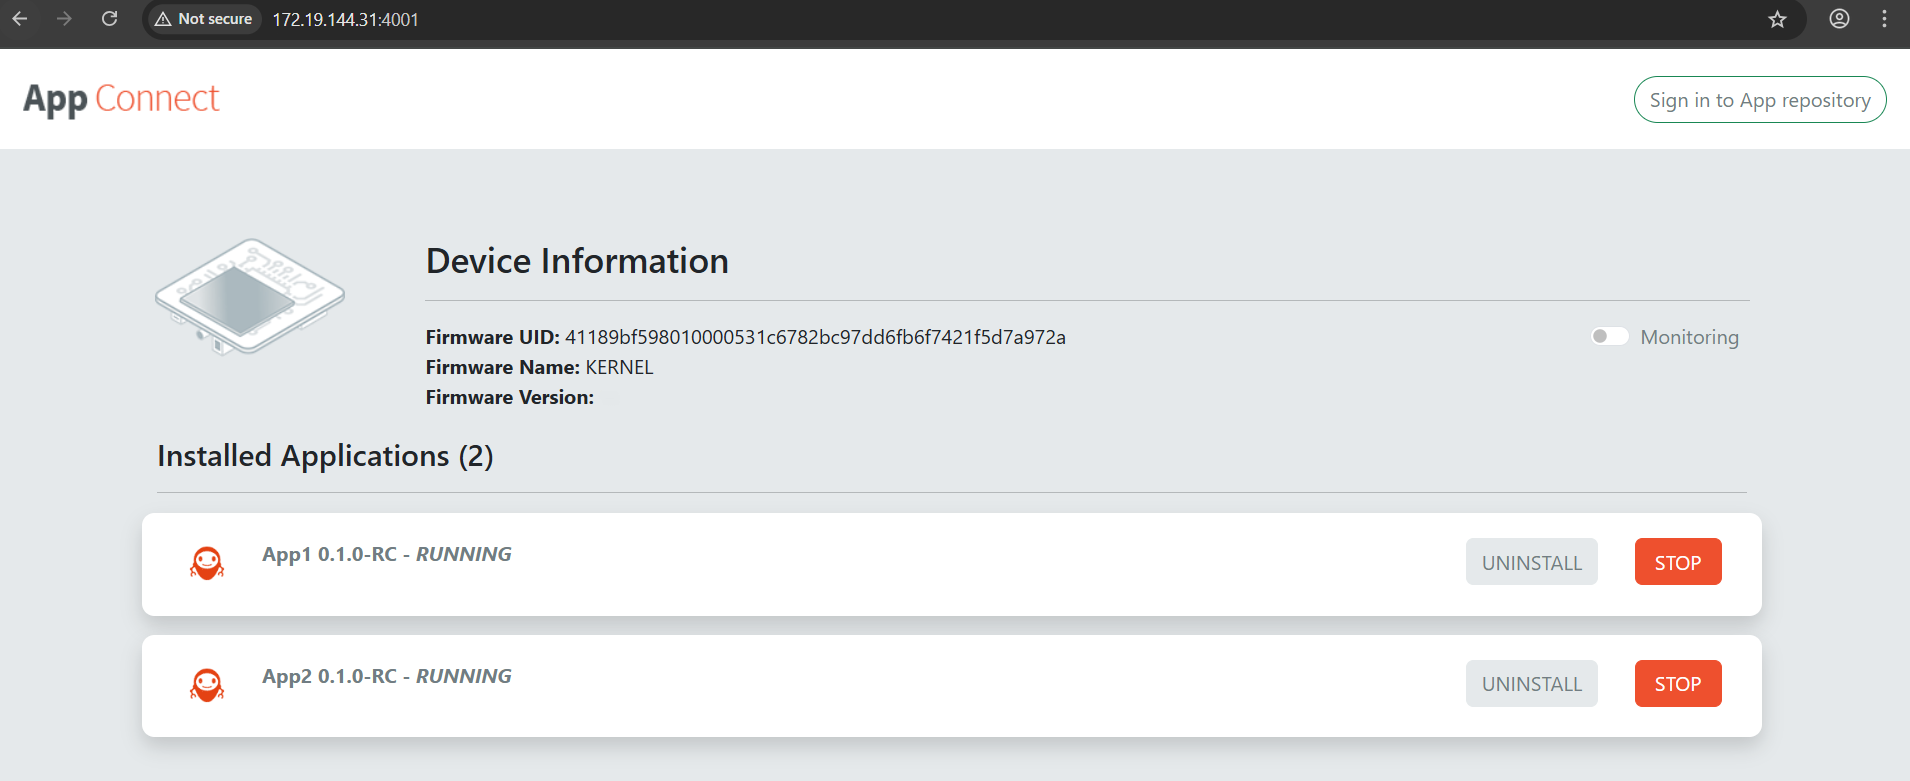
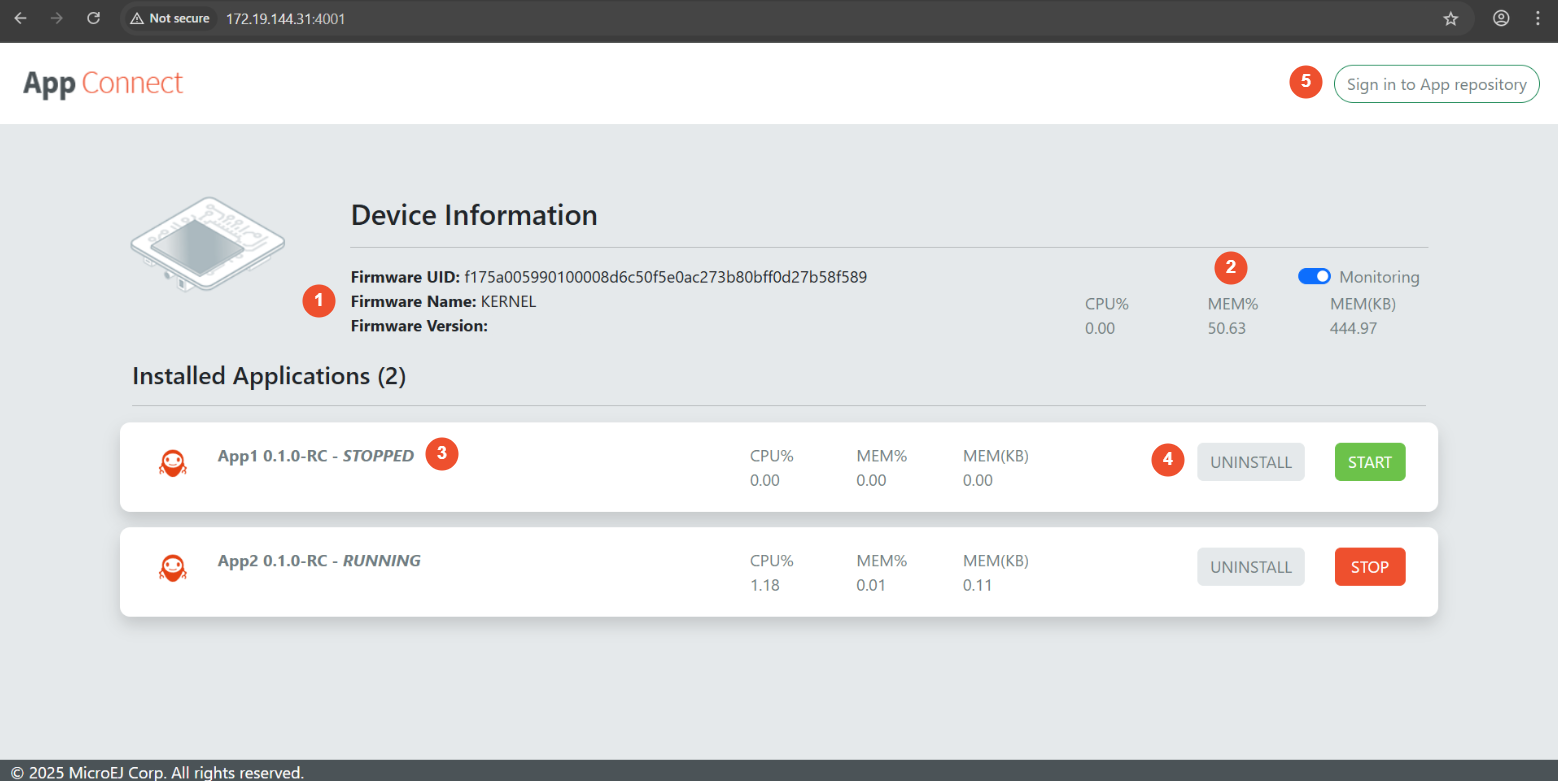
Update overview and picture

diff --git a/ApplicationDeveloperGuide/sandboxedApplication.rst b/ApplicationDeveloperGuide/sandboxedApplication.rst
@@ -35,27 +35,40 @@ Please refer to the :ref:`kernel-developer-guide` to learn more on writing Kerne
 
 
 AppConnect Application Management
-================================================
+=================================
 
 **AppConnect** is an embedded library designed to simplify the management of on-board Sandboxed Applications directly on the device.
 It provides services to install, start, stop, and uninstall applications, as well as to retrieve metadata about both deployed applications and the target device.
 The library includes a full-fledged HTTP server, providing a comprehensive REST API along with a web-based graphical interface.
 
-AppConnect supports three modes of interaction:
+AppConnect supports four modes of interaction:
 
-- A web application enabling users to access and control applications via a web interface or REST API.
-- A Java-based command-line (CLI) tool that serves as a headless interface, offering the full functionality of the web application through its REST API, while enabling seamless automation and scripting directly from the command line.
-- A serial module that operates independently of the HTTP server, providing a shell for receiving and executing commands over a serial connection (UART).
+- Web App — See :ref:`web_app_section`.
+- REST API — See :ref:`rest_api_section`.
+- HTTP CLI — See :ref:`http_cli_section`.
+- Serial Shell — See :ref:`serial_shell_section`.
 
-AppConnect Web UI
------------------
+.. _web_app_section:
+
+AppConnect Web App
+------------------
 
 Installed Applications are listed on the Web UI, and they can be started, stopped, or uninstalled.
+
+The screenshot below highlights the following elements:
+
+1. Device information that displays the firmware UID, name and version.
+2. CPU and RAM monitoring when supported by the device and the applications.
+3. The current state of each application (``INSTALLED``, ``RUNNING`` , or ``STOPPED``).
+4. Action buttons to start, stop, or uninstall applications.
+5. Connection to the MicroEJ App Store.
 
 .. figure:: images/app_connect_web_ui.png
    :alt: AppConnect Web UI
    :align: center
    :scale: 75%
+
+.. _rest_api_section:
 
 AppConnect REST API
 -------------------
@@ -102,8 +115,8 @@ Install an application on the device.
 - ``force``: If ``true``, uninstall any existing application with the same name before installing the new one. Default: ``false``.
 - ``start``: If ``true``, automatically start the application after installation. Default: ``false``.
 
-Manage Installed Applications
-^^^^^^^^^^^^^^^^^^^^^^^^^^^^^
+Manage Applications
+^^^^^^^^^^^^^^^^^^^
 
 Start, stop, or uninstall an installed Application.
 
@@ -111,10 +124,12 @@ Start, stop, or uninstall an installed Application.
 
 **Required parameters:** ``id``, ``action``.
 
-AppConnect CLI
---------------
+.. _http_cli_section:
 
-A Java-based command-line (CLI) tool that serves as a headless interface, offering the full functionality of the web application through its REST API, while enabling seamless automation and scripting directly from the command line.
+AppConnect HTTP CLI
+-------------------
+
+AppConnect CLI is a Java-based command-line (CLI) tool that serves as a headless interface, offering the full functionality of the web application through its REST API, while enabling seamless automation and scripting directly from the command line.
 
 The CLI is available for download at the following `link <https://forge.microej.com/ui/repos/tree/General/microej-developer-repository-release/com/microej/library/appconnect-cli>`_.
 
@@ -169,10 +184,12 @@ Once the connection is established, you can execute various commands to manage a
 
 For detailed information on any command, use the ``--help`` option with that command.
 
-AppConnect Serial
------------------
+.. _serial_shell_section:
 
-The ``appconnect-serial`` module provides a shell for use over a serial connection. It reads commands from an input stream, and writes execution results to an output stream.
+AppConnect Serial Shell
+-----------------------
+
+The ``appconnect-serial`` module provides a shell for use over a serial connection (UART). It reads commands from an input stream, and writes execution results to an output stream.
 
 Requirements
 ^^^^^^^^^^^^
